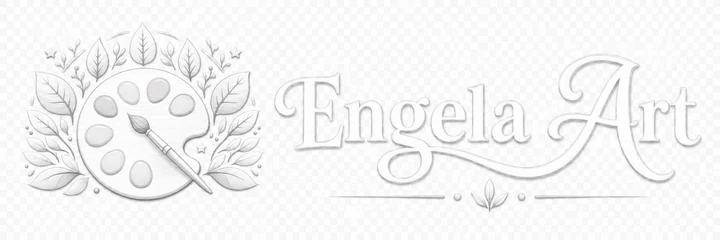
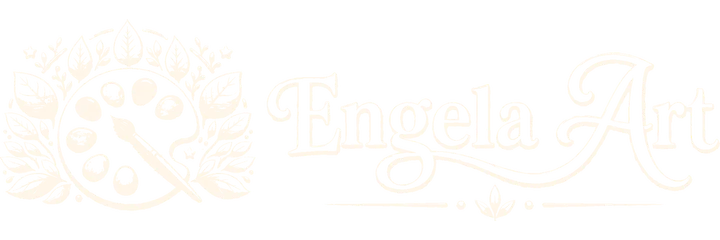
docs: docs

diff --git a/docs/strategy.md b/docs/strategy.md
@@ -79,7 +79,7 @@ V1 includes privacy-conscious analytics to understand which content and paths le
 - Painting detail views
 - Painting, interest-list, similar-work, and commission inquiry starts
 - Successful inquiry submissions by inquiry type
-- Outbound email, Instagram, and Facebook clicks
+- Outbound email and Instagram clicks
 
 Analytics must never capture names, email addresses, phone numbers, message text, custom budget text, exact interest-list membership, or other buyer-identifying form data. Painting events may use the public painting slug.
 
@@ -129,7 +129,7 @@ Email marketing can be reconsidered only as a separate feature with explicit opt
 
 ## Social Media Placement
 
-V1 links to Instagram and Facebook through persistent footer icons, Contact-page text links, and an optional About-page Instagram link. It does not embed social feeds, add floating social buttons, or place social actions beside individual paintings.
+V1 links to Instagram through a persistent footer icon, Contact-page text link, and optional About-page Instagram link. It does not embed social feeds, add floating social buttons, or place social actions beside individual paintings.
 
 ## Language and Market Reach
 
@@ -328,7 +328,7 @@ This workflow is intentionally simple. It keeps the first version focused on lau
 
 The website form is the primary channel for purchase-related inquiries. It gives the artist a consistent email record containing the visitor's contact details, language, inquiry type, message, and painting reference.
 
-The site also displays a direct email address as a fallback. Instagram and Facebook links are available for general contact and following the artist, but the interface encourages buyers to use the form or email for purchase discussions so both parties retain a clearer, more formal record.
+The site also displays a direct email address as a fallback. Instagram is available for general following, but the interface encourages buyers to use the form or email for purchase discussions so both parties retain a clearer, more formal record.
 
 Painting-specific inquiry:
 
@@ -544,7 +544,7 @@ Do not launch publicly until the site has:
 - Accurate status, numeric dimensions, year, price, and images for every included painting
 - Official painting title plus complete Norwegian and English summaries, medium text, technique text, optional artist notes, and image alt text for every included painting
 - Final artist biography and introductory copy in both languages
-- Working contact email plus Instagram and Facebook links
+- Working contact email plus Instagram link
 - Confirmed ENK identity details or a documented registration completion step before sales
 - Reviewed privacy, sales, cancellation, and commission terms
 - A real end-to-end inquiry email test

diff --git a/docs/ui-ux/pages-and-flows.md b/docs/ui-ux/pages-and-flows.md
@@ -167,7 +167,7 @@ Required content:
 - Contact form as the primary path
 - Public email address as a fallback
 - Expected response context
-- Instagram and Facebook text links as secondary contact channels
+- Instagram text link as a secondary follow channel
 - Concise frequently asked questions
 
 Purchase-related copy should encourage the form or direct email rather than social messages because email provides a clearer record for both buyer and artist.
@@ -178,7 +178,7 @@ Beside submit, show a concise localized notice explaining that Engela Art proces
 
 ### Footer
 
-The footer includes persistent, accessible Instagram and Facebook links on every page. V1 does not embed social feeds, add floating social buttons, or repeat social links beside individual paintings.
+The footer includes a persistent, accessible Instagram link on every page. V1 does not embed social feeds, add floating social buttons, or repeat social links beside individual paintings.
 
 The contact flow can also start a commission inquiry for a new painting inspired by the artist's existing work. The copy must state that requests are subject to artist approval and do not guarantee acceptance or exact reproduction.
 

diff --git a/docs/analytics-and-monitoring.md b/docs/analytics-and-monitoring.md
@@ -31,7 +31,7 @@ tracking. Useful PostHog summaries include:
 - painting detail views by public painting reference
 - inquiry starts by category
 - successful inquiry submissions by category
-- outbound business email, Instagram, and Facebook clicks
+- outbound business email and Instagram clicks
 
 Compare those totals with the private operations register only at an aggregate
 level, for example:

diff --git a/docs/business-and-family-workflows-no.md b/docs/business-and-family-workflows-no.md
@@ -287,7 +287,7 @@ Den offentlige bedriftsadressen skal være:
 
 Skjemaet på nettstedet er den foretrukne kanalen for kjøpsrelaterte forespørsler.
 
-Instagram og Facebook er sekundære kanaler.
+Instagram er en sekundær kanal for å følge Engela Art.
 
 Kunstneren bør oppbevare viktige salgsavtaler i e-post, slik at begge parter har skriftlig dokumentasjon.
 

diff --git a/docs/business-and-family-workflows.md b/docs/business-and-family-workflows.md
@@ -287,7 +287,7 @@ The public business address will be:
 
 The website form is the preferred route for purchase-related inquiries.
 
-Instagram and Facebook are secondary channels.
+Instagram is a secondary channel for following Engela Art.
 
 The artist should keep important sale agreements in email so both parties have a written record.
 

diff --git a/docs/content-inventory.md b/docs/content-inventory.md
@@ -18,7 +18,7 @@ Use this as a working checklist while collecting content from the artist.
 | Contact email         | Needed   | Email that receives buyer inquiries.                 |
 | Public phone number   | Optional | Only include if the artist wants phone contact.      |
 | Location/region       | Optional | Useful for pickup/local context.                     |
-| Social links          | Optional | Instagram, Facebook, portfolio platforms, etc.       |
+| Social links          | Optional | Instagram or portfolio platforms, etc.               |
 | Artist portrait       | Needed   | Used on about page.                                  |
 | Studio/process images | Optional | Helps make the site more personal.                   |
 | Privacy/contact text  | Needed   | Explain how inquiry data is used.                    |

diff --git a/docs/deployment.md b/docs/deployment.md
@@ -64,8 +64,6 @@ live providers.
 | `POSTHOG_API_KEY`        | Production PostHog project credential.                                                       |
 | `POSTHOG_HOST`           | PostHog EU ingestion host.                                                                   |
 | `SENTRY_DSN`             | Production Sentry project DSN.                                                               |
-| `VITE_INSTAGRAM_URL`     | Confirmed public Engela Art Instagram profile.                                               |
-| `VITE_FACEBOOK_URL`      | Confirmed public Engela Art Facebook profile.                                                |
 
 Production credentials belong in Netlify's environment-variable settings with
 production-only scope. Preview, branch-deploy, and local contexts receive none of

diff --git a/docs/ui-ux/component-inventory.md b/docs/ui-ux/component-inventory.md
@@ -5,7 +5,7 @@
 - Site header
 - Main navigation
 - Mobile navigation
-- Footer with accessible Instagram and Facebook links
+- Footer with accessible Instagram link
 - Page container
 - Section layout
 

diff --git a/docs/ui-ux/content-model.md b/docs/ui-ux/content-model.md
@@ -14,7 +14,7 @@ Collect this before building the final UI:
 - Artist portrait
 - Process or studio images
 - Contact email
-- Instagram and Facebook links
+- Instagram link
 - Location or region, if public
 - Exhibition/history notes, if relevant
 